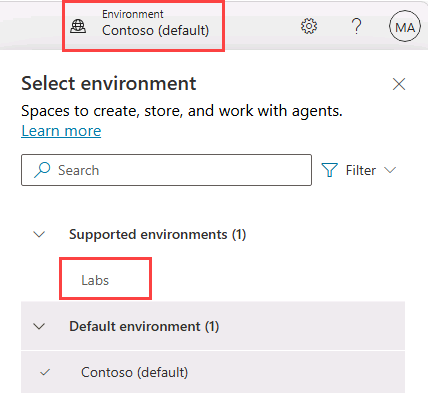
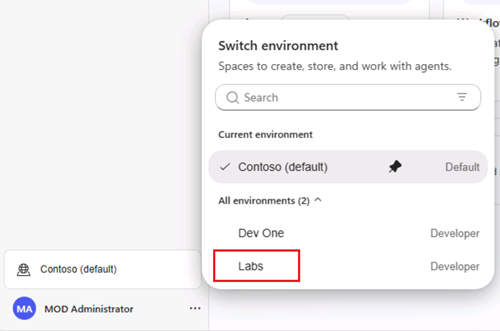
fix(lab00/ex01): update environment setup steps for current UI

diff --git a/Instructions/Labs/00-ILT-setup.md b/Instructions/Labs/00-ILT-setup.md
@@ -25,7 +25,7 @@ Before you start the lab exercises, you must create a development environment fo
 
 ### Task 1.2 - Add Dataverse to the default environment
 
-1. Select the ellipsis (**...**) for the **Contoso (default)** environment and select **Add Dataverse**.
+1. Select the ellipsis (**...**) for the **default** environment (e.g **Contoso (default)**) and select **Add Dataverse**.
 
    ![Add Dataverse to the default environment in the Power Platform Admin center.](../media/add-dataverse.png)
 
@@ -44,7 +44,6 @@ Before you start the lab exercises, you must create a development environment fo
 1. Expand **Change default settings** and configure the following:
    - **Environment group**: None
    - **Make this a Managed Environment**: No
-   - **Get new features early**: No
    - **Create on behalf**: No
    - **Add a Dataverse data store?**: Yes
    
@@ -74,17 +73,17 @@ Before you start the lab exercises, you must create a development environment fo
    >   https://copilotstudio.microsoft.com/environments/<your-environment-id>/home
    >   ```
 
-1. If prompted, select **Get Started** and keep the default country or region settings.
+1. If prompted with a **Get Started** screen, accept the default country or region and continue. Skip any welcome messages.
 
-1. Skip any welcome messages.
-
-1. In the upper right corner of the page, switch environments by using the Environment Selector and select the environment you created.
+1. In the bottom-left corner, select the **environment selector** that displays the name of the currently selected environment
 
    ![Select your environment in the Copilot Studio.](../media/select-environment.png)
 
 ### Task 1.4 - Create a solution
 
-1. In the left navigation pane, select the ellipsis (**...**), and select **Solutions**.
+1. In the left navigation pane, select the ellipsis (**...**) next to your account name and then select **Solutions**.
+
+1. If prompted with a **Get Started** screen, select **Get Started** and then skip any welcome messages.
 
 1. You should see several solutions including the *Default Solution* and the *Common Data Services Default Solution*.
 
